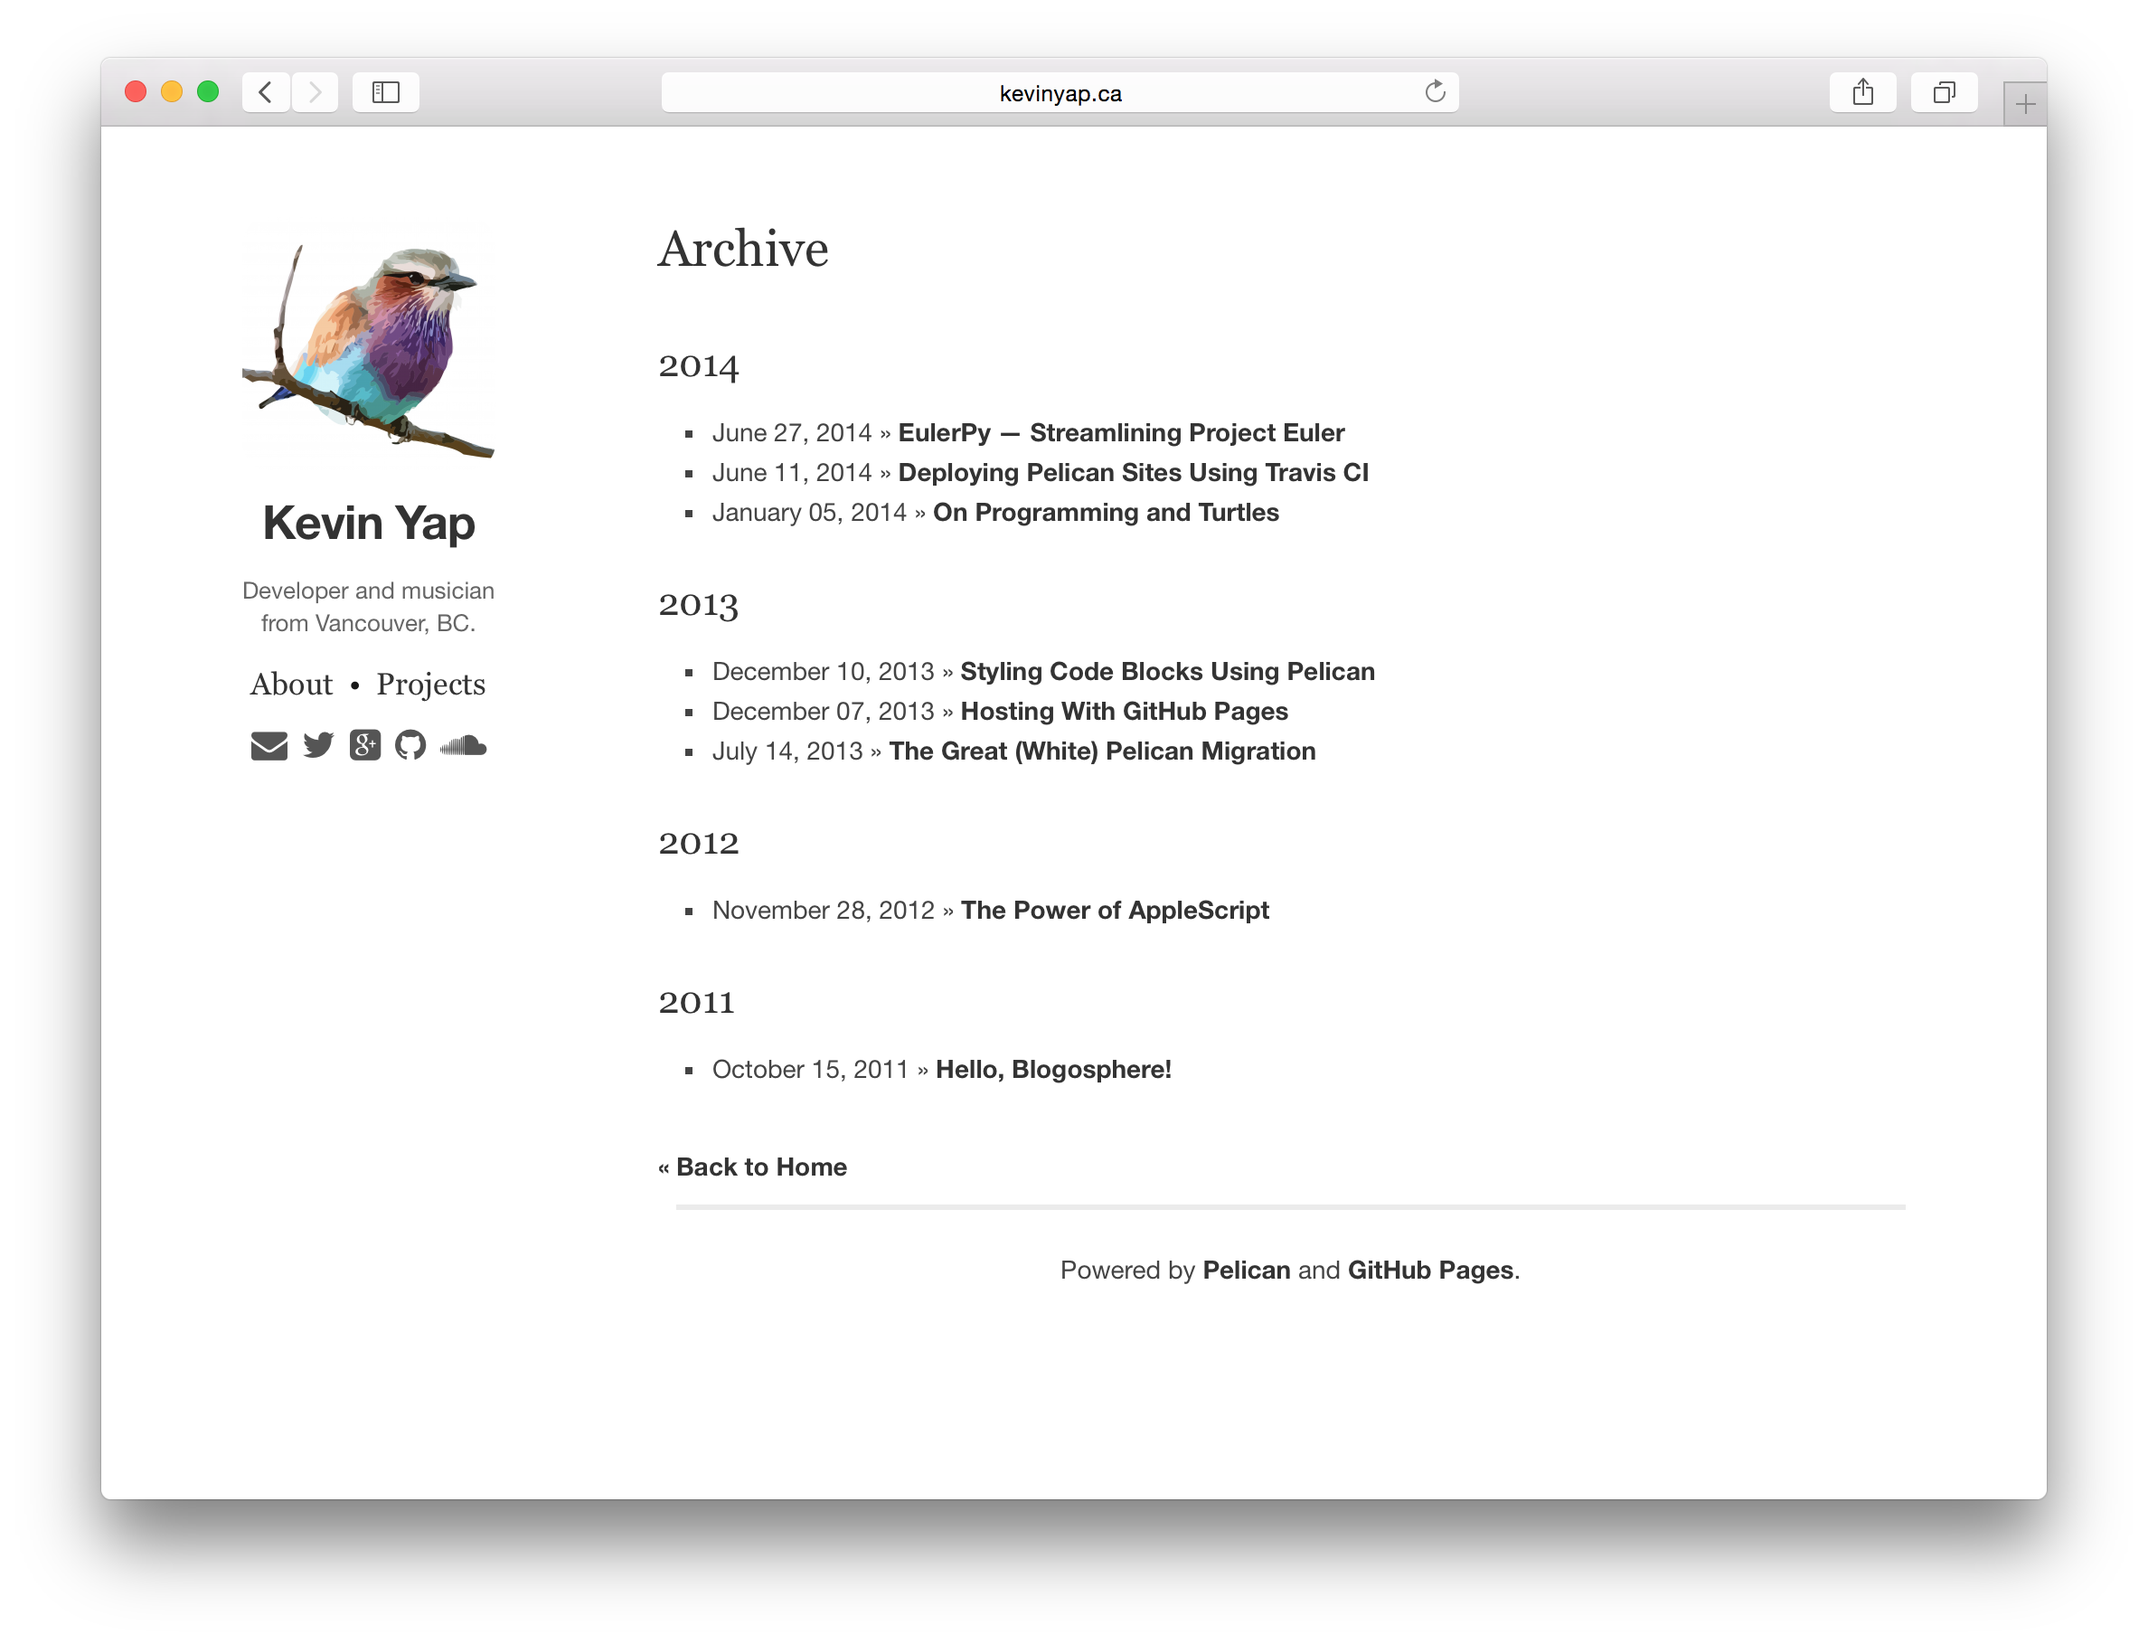
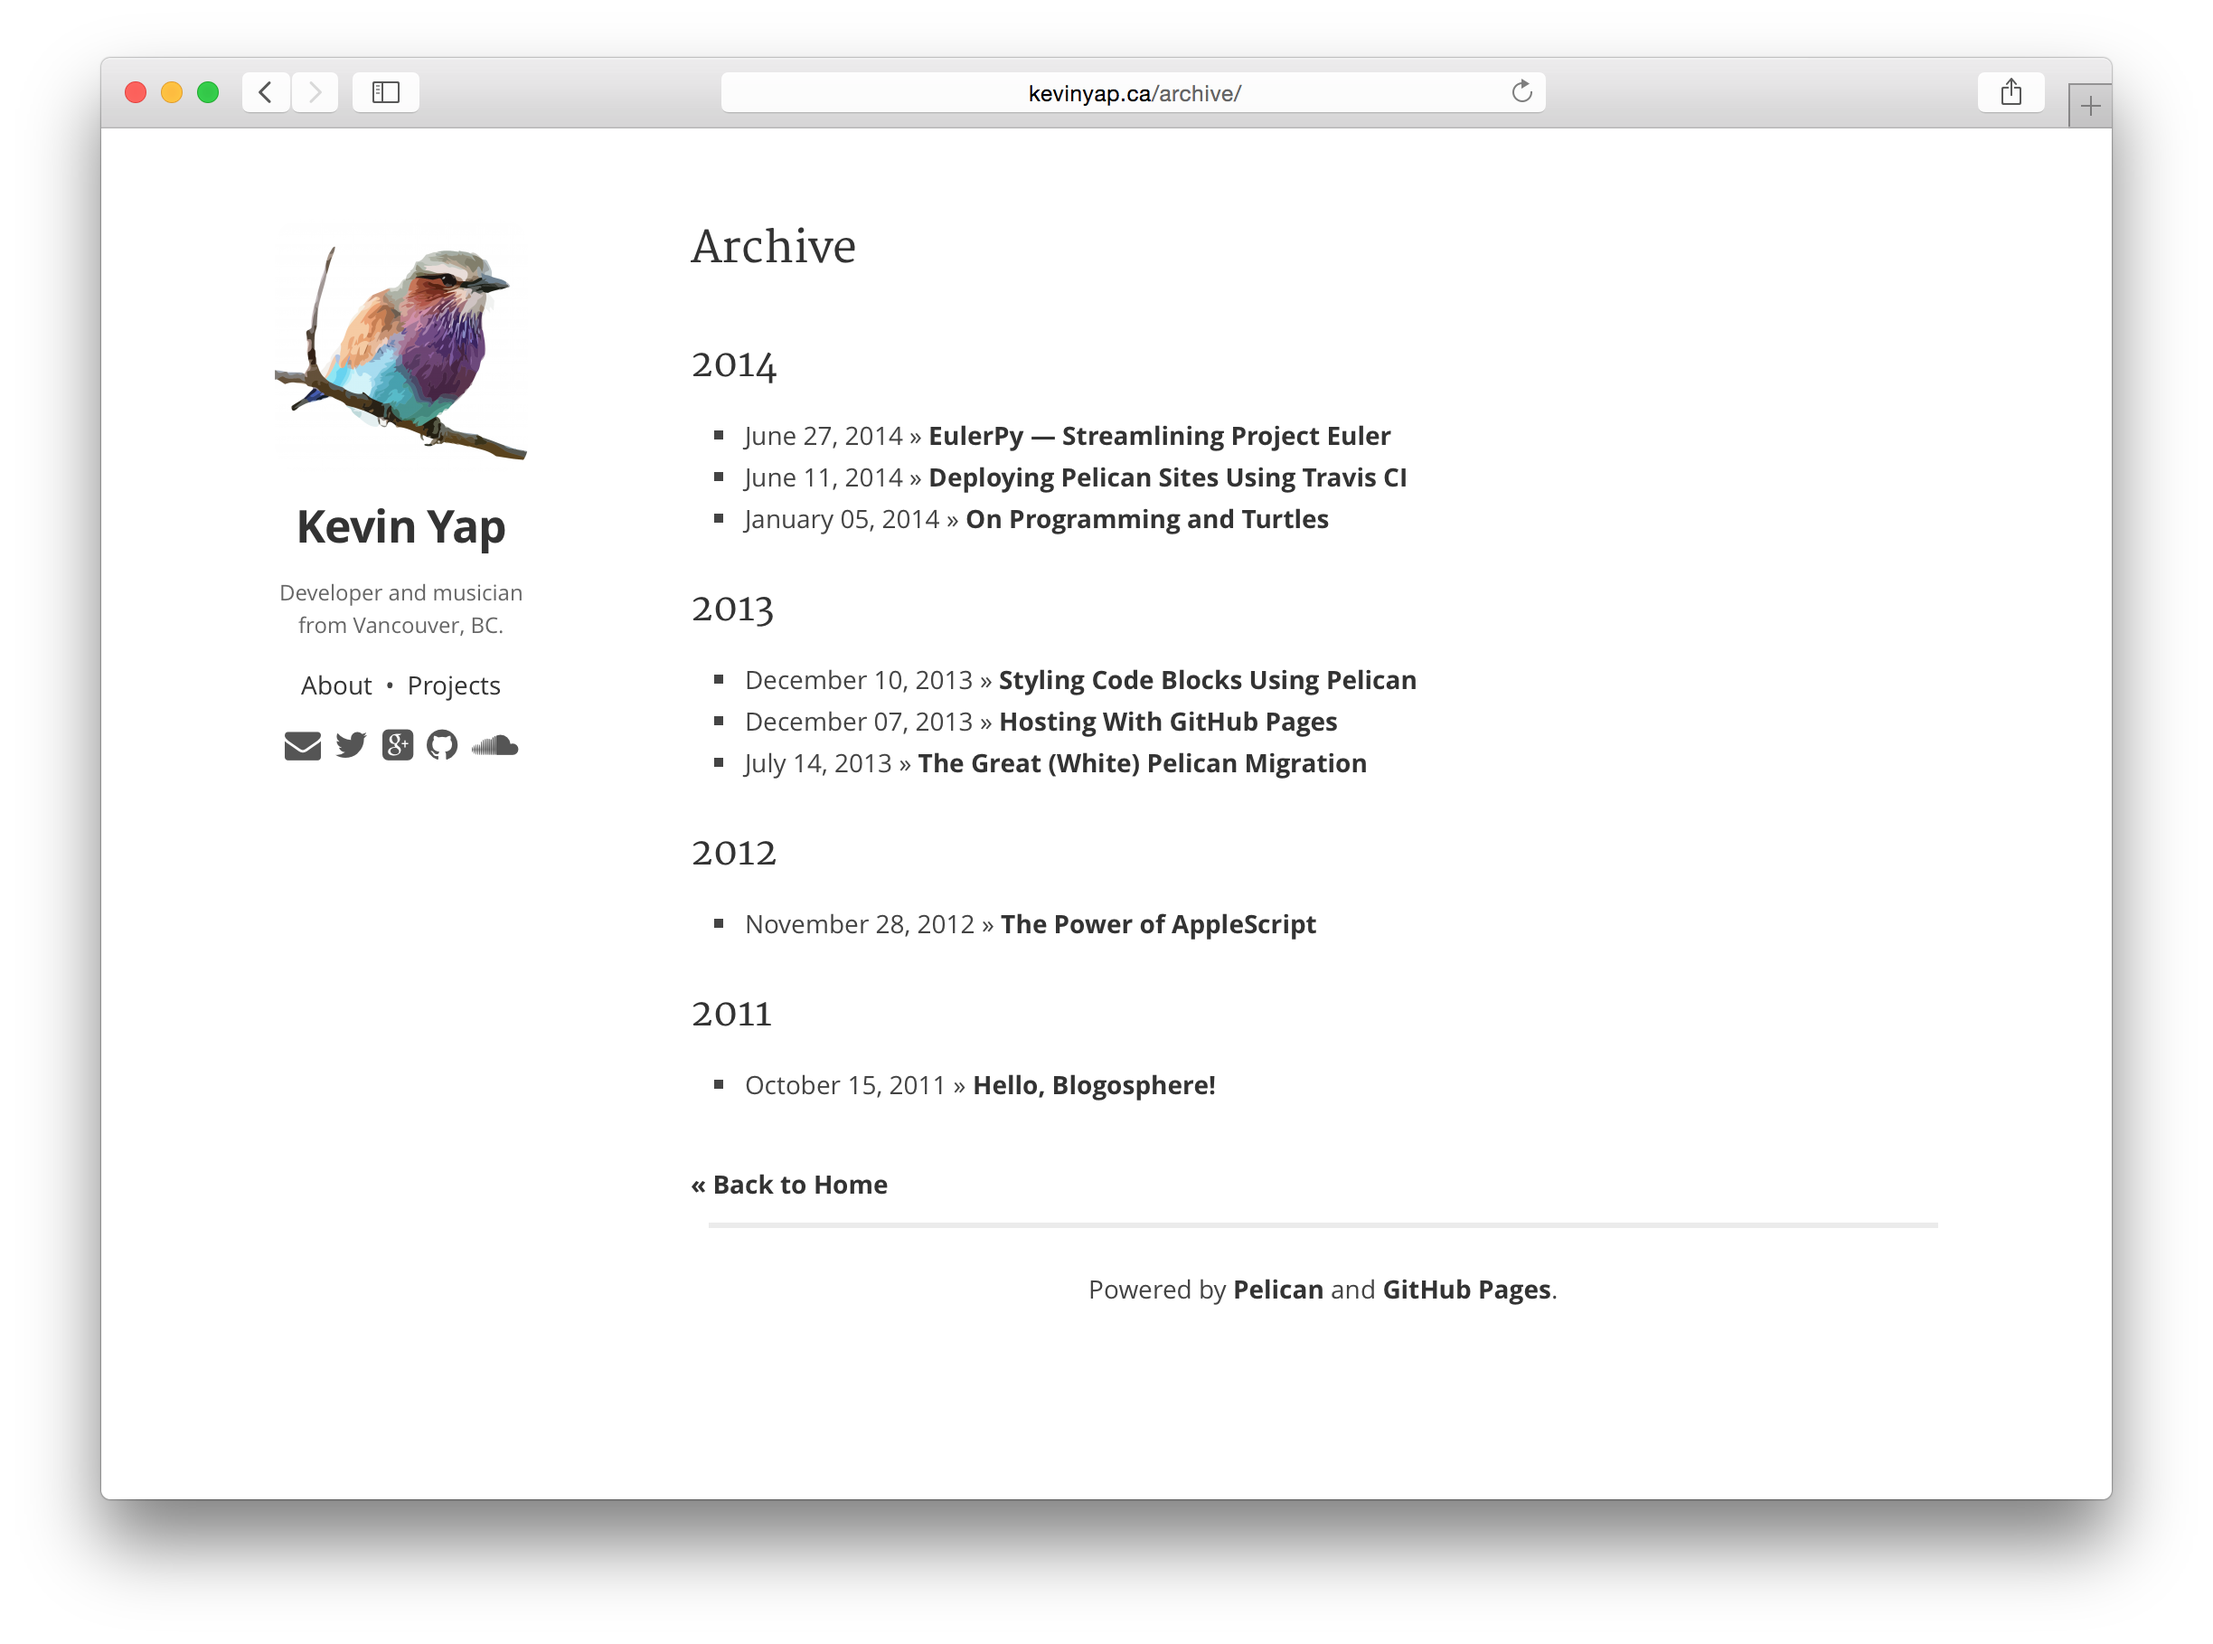
Updated theme screenshots and fixed base.html link

diff --git a/pneumatic/README.md b/pneumatic/README.md
@@ -14,7 +14,7 @@ Pneumatic is a minimalist, single-author [Pelican](http://getpelican.com) theme 
 - The files in [static/images](static/images) should be replaced appropriately.
 - [`pygments.css`](static/pygments.css) can be modified to change the syntax highlighting colour scheme.
 - CodeHilite line numbers should be enabled (ie. `MD_EXTENSIONS = [codehilite(linenums=True)]`).
-- Some font and colour choices can be customized in [`style.scss`](static/style.scss#L10). Remember to update [`base.html`](pneumatic/templates/base.html) if adding or removing any web fonts.
+- Some font and colour choices can be customized in [`style.scss`](static/style.scss#L10). Remember to update [`base.html`](templates/base.html) if adding or removing any web fonts.
 
 Here are theme-specific settings that should be present in the Pelican configuration file:
 
@@ -40,5 +40,3 @@ Here are theme-specific settings that should be present in the Pelican configura
 ![Article](screenshots/article.png?raw=true)
 
 ![Archive](screenshots/archive.png?raw=true)
-
-<img src="screenshots/mobile.png?raw=true" alt="Mobile" width=420>
